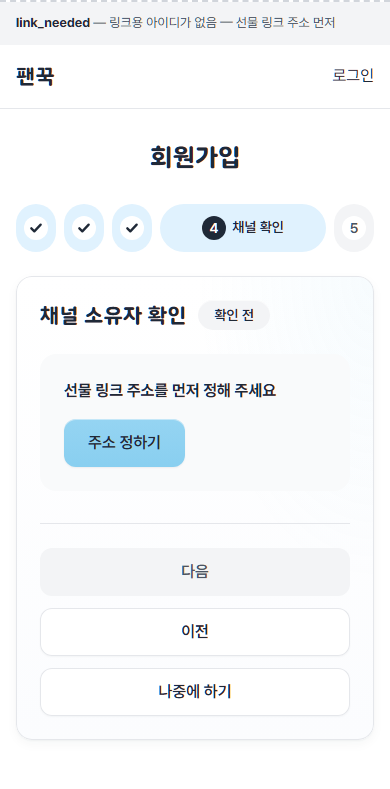
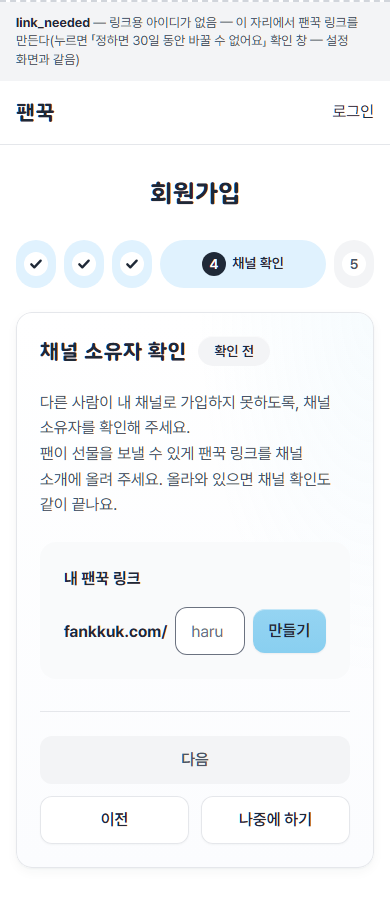
docs(fankkuk): 채널 확인 시안 — 내 팬꾹 링크·소유자 확인 안내·링크 바로 만들기·휴대폰 버튼 줄 반씩

diff --git a/projects/fankkuk/docs/design/mockups/channel-link-verify-20261102/index.html b/projects/fankkuk/docs/design/mockups/channel-link-verify-20261102/index.html
@@ -5,15 +5,15 @@
 <link rel="stylesheet" href="styles.css"></head><body>
 <!-- 근거: docs/ux/pages/signup.md · handle.md 「2026-11-02 채널 확인 개정안」. 쪽지 코드 칸 없음. 새 토큰·부품 없음(styles.css 는 v43 가입 시안 CSS 를 그대로 복사). 운영자 화면은 admin.html -->
 <header class="v-head"><h1 class="t-title">채널 확인 — 선물 링크 게시 확인</h1><ol><li><a href="#link-needed">link_needed</a></li><li><a href="#idle-empty">idle (1/3)</a></li><li><a href="#idle-youtube">idle (2/3)</a></li><li><a href="#idle-chzzk">idle (3/3)</a></li><li><a href="#waiting">waiting</a></li><li><a href="#rejected">rejected</a></li><li><a href="#verified">verified (가입 4단계)</a></li><li><a href="#locked">locked</a></li><li><a href="#acct-verified">verified (계정 설정)</a></li><li><a href="#acct-recheck">recheck_missing</a></li><li><a href="#profile-verifying">verifying (선물 링크 페이지 fankkuk.com/haru)</a></li><li><a href="admin.html">운영자 화면(admin.html)</a></li></ol></header>
-<section class="v-state" id="link-needed"><span class="v-label"><b>link_needed</b> — 링크용 아이디가 없음 — 선물 링크 주소 먼저</span><div class="v-bar"><b>팬꾹</b><span>로그인</span></div><main><section class="su-page"><div class="container auth su-box"><div class="head"><h1 class="t-title">회원가입</h1></div><nav class="su-steps-wrap" aria-label="가입 단계"><ol class="su-steps su-four"><li><span class="su-st is-done"><span class="su-dot" aria-hidden="true"><svg width="16" height="16" viewBox="0 0 24 24" aria-hidden="true"><path d="m5 12.5 4.5 4.5L19 7" fill="none" stroke="currentColor" stroke-width="3.5" stroke-linecap="round" stroke-linejoin="round"/></svg></span><span class="su-lbl">유형 선택</span></span></li><li><span class="su-st is-done"><span class="su-dot" aria-hidden="true"><svg width="16" height="16" viewBox="0 0 24 24" aria-hidden="true"><path d="m5 12.5 4.5 4.5L19 7" fill="none" stroke="currentColor" stroke-width="3.5" stroke-linecap="round" stroke-linejoin="round"/></svg></span><span class="su-lbl">정보 입력</span></span></li><li><span class="su-st is-done"><span class="su-dot" aria-hidden="true"><svg width="16" height="16" viewBox="0 0 24 24" aria-hidden="true"><path d="m5 12.5 4.5 4.5L19 7" fill="none" stroke="currentColor" stroke-width="3.5" stroke-linecap="round" stroke-linejoin="round"/></svg></span><span class="su-lbl">휴대폰 확인</span></span></li><li><span class="su-st" aria-current="step"><span class="su-dot" aria-hidden="true">4</span><span class="su-lbl">채널 확인</span></span></li><li><span class="su-st"><span class="su-dot" aria-hidden="true">5</span><span class="su-lbl">승인 서명</span></span></li></ol></nav><form class="card" onsubmit="return false"><fieldset class="su-step"><legend class="sr-only">채널 소유자 확인</legend><div class="vp-head"><h2 class="t-card">채널 소유자 확인</h2><span class="tag">확인 전</span></div><div class="vp-box"><p class="vp-label">선물 링크 주소를 먼저 정해 주세요</p><div><button class="btn" type="button">주소 정하기</button></div></div></fieldset><div class="v-kakao-actions v-three"><button class="btn btn--line" type="button">이전</button><button class="btn btn--line" type="button">나중에 하기</button><button class="btn su-next v-main" type="submit" aria-disabled="true">다음</button></div></form></div></section></main></section>
-<section class="v-state" id="idle-empty"><span class="v-label"><b>idle (1/3)</b> — 확인 전 — 채널 주소 입력 전</span><div class="v-bar"><b>팬꾹</b><span>로그인</span></div><main><section class="su-page"><div class="container auth su-box"><div class="head"><h1 class="t-title">회원가입</h1></div><nav class="su-steps-wrap" aria-label="가입 단계"><ol class="su-steps su-four"><li><span class="su-st is-done"><span class="su-dot" aria-hidden="true"><svg width="16" height="16" viewBox="0 0 24 24" aria-hidden="true"><path d="m5 12.5 4.5 4.5L19 7" fill="none" stroke="currentColor" stroke-width="3.5" stroke-linecap="round" stroke-linejoin="round"/></svg></span><span class="su-lbl">유형 선택</span></span></li><li><span class="su-st is-done"><span class="su-dot" aria-hidden="true"><svg width="16" height="16" viewBox="0 0 24 24" aria-hidden="true"><path d="m5 12.5 4.5 4.5L19 7" fill="none" stroke="currentColor" stroke-width="3.5" stroke-linecap="round" stroke-linejoin="round"/></svg></span><span class="su-lbl">정보 입력</span></span></li><li><span class="su-st is-done"><span class="su-dot" aria-hidden="true"><svg width="16" height="16" viewBox="0 0 24 24" aria-hidden="true"><path d="m5 12.5 4.5 4.5L19 7" fill="none" stroke="currentColor" stroke-width="3.5" stroke-linecap="round" stroke-linejoin="round"/></svg></span><span class="su-lbl">휴대폰 확인</span></span></li><li><span class="su-st" aria-current="step"><span class="su-dot" aria-hidden="true">4</span><span class="su-lbl">채널 확인</span></span></li><li><span class="su-st"><span class="su-dot" aria-hidden="true">5</span><span class="su-lbl">승인 서명</span></span></li></ol></nav><form class="card" onsubmit="return false"><fieldset class="su-step"><legend class="sr-only">채널 소유자 확인</legend><div class="vp-head"><h2 class="t-card">채널 소유자 확인</h2><span class="tag">확인 전</span></div><p class="sub su-lead">팬이 선물을 보낼 수 있게 선물 링크를 채널 소개에 올려 주세요. 올라와 있으면 채널 확인도 같이 끝나요.</p><div class="vp-box"><p class="vp-label">내 선물 링크</p><div class="vp-code-row"><span class="vp-link">fankkuk.com/haru</span><button class="btn btn--line btn--sm" type="button">복사</button></div></div><div style="margin-top:24px"><div><label class="label" for="a1">채널 주소</label><input class="field" id="a1" inputmode="url" placeholder="https://www.youtube.com/@핸들" value=""><ul class="vp-examples"><li>유튜브 <code>https://www.youtube.com/@핸들</code></li><li>치지직 <code>https://chzzk.naver.com/채널ID</code></li><li>SOOP <code>https://www.sooplive.co.kr/station/아이디</code></li></ul></div></div><div class="vp-steps"><button class="btn" type="button" aria-disabled="true">확인 요청</button></div></fieldset><div class="v-kakao-actions v-three"><button class="btn btn--line" type="button">이전</button><button class="btn btn--line" type="button">나중에 하기</button><button class="btn su-next v-main" type="submit" aria-disabled="true">다음</button></div></form></div></section></main></section>
-<section class="v-state" id="idle-youtube"><span class="v-label"><b>idle (2/3)</b> — 확인 전 — 유튜브 주소 입력 뒤</span><div class="v-bar"><b>팬꾹</b><span>로그인</span></div><main><section class="su-page"><div class="container auth su-box"><div class="head"><h1 class="t-title">회원가입</h1></div><nav class="su-steps-wrap" aria-label="가입 단계"><ol class="su-steps su-four"><li><span class="su-st is-done"><span class="su-dot" aria-hidden="true"><svg width="16" height="16" viewBox="0 0 24 24" aria-hidden="true"><path d="m5 12.5 4.5 4.5L19 7" fill="none" stroke="currentColor" stroke-width="3.5" stroke-linecap="round" stroke-linejoin="round"/></svg></span><span class="su-lbl">유형 선택</span></span></li><li><span class="su-st is-done"><span class="su-dot" aria-hidden="true"><svg width="16" height="16" viewBox="0 0 24 24" aria-hidden="true"><path d="m5 12.5 4.5 4.5L19 7" fill="none" stroke="currentColor" stroke-width="3.5" stroke-linecap="round" stroke-linejoin="round"/></svg></span><span class="su-lbl">정보 입력</span></span></li><li><span class="su-st is-done"><span class="su-dot" aria-hidden="true"><svg width="16" height="16" viewBox="0 0 24 24" aria-hidden="true"><path d="m5 12.5 4.5 4.5L19 7" fill="none" stroke="currentColor" stroke-width="3.5" stroke-linecap="round" stroke-linejoin="round"/></svg></span><span class="su-lbl">휴대폰 확인</span></span></li><li><span class="su-st" aria-current="step"><span class="su-dot" aria-hidden="true">4</span><span class="su-lbl">채널 확인</span></span></li><li><span class="su-st"><span class="su-dot" aria-hidden="true">5</span><span class="su-lbl">승인 서명</span></span></li></ol></nav><form class="card" onsubmit="return false"><fieldset class="su-step"><legend class="sr-only">채널 소유자 확인</legend><div class="vp-head"><h2 class="t-card">채널 소유자 확인</h2><span class="tag">확인 전</span></div><p class="sub su-lead">팬이 선물을 보낼 수 있게 선물 링크를 채널 소개에 올려 주세요. 올라와 있으면 채널 확인도 같이 끝나요.</p><div class="vp-box"><p class="vp-label">내 선물 링크</p><div class="vp-code-row"><span class="vp-link">fankkuk.com/haru</span><button class="btn btn--line btn--sm" type="button">복사</button></div></div><div style="margin-top:24px"><div><label class="label" for="a2">채널 주소</label><input class="field" id="a2" inputmode="url" placeholder="https://www.youtube.com/@핸들" value="https://www.youtube.com/@honeypot"><p class="vp-preview">유튜브 · https://www.youtube.com/@honeypot</p></div></div><div class="vp-steps"><button class="btn" type="button">확인 요청</button></div></fieldset><div class="v-kakao-actions v-three"><button class="btn btn--line" type="button">이전</button><button class="btn btn--line" type="button">나중에 하기</button><button class="btn su-next v-main" type="submit" aria-disabled="true">다음</button></div></form></div></section></main></section>
-<section class="v-state" id="idle-chzzk"><span class="v-label"><b>idle (3/3)</b> — 확인 전 — 치지직 주소 + 치지직 로그인 연결이 있을 때</span><div class="v-bar"><b>팬꾹</b><span>로그인</span></div><main><section class="su-page"><div class="container auth su-box"><div class="head"><h1 class="t-title">회원가입</h1></div><nav class="su-steps-wrap" aria-label="가입 단계"><ol class="su-steps su-four"><li><span class="su-st is-done"><span class="su-dot" aria-hidden="true"><svg width="16" height="16" viewBox="0 0 24 24" aria-hidden="true"><path d="m5 12.5 4.5 4.5L19 7" fill="none" stroke="currentColor" stroke-width="3.5" stroke-linecap="round" stroke-linejoin="round"/></svg></span><span class="su-lbl">유형 선택</span></span></li><li><span class="su-st is-done"><span class="su-dot" aria-hidden="true"><svg width="16" height="16" viewBox="0 0 24 24" aria-hidden="true"><path d="m5 12.5 4.5 4.5L19 7" fill="none" stroke="currentColor" stroke-width="3.5" stroke-linecap="round" stroke-linejoin="round"/></svg></span><span class="su-lbl">정보 입력</span></span></li><li><span class="su-st is-done"><span class="su-dot" aria-hidden="true"><svg width="16" height="16" viewBox="0 0 24 24" aria-hidden="true"><path d="m5 12.5 4.5 4.5L19 7" fill="none" stroke="currentColor" stroke-width="3.5" stroke-linecap="round" stroke-linejoin="round"/></svg></span><span class="su-lbl">휴대폰 확인</span></span></li><li><span class="su-st" aria-current="step"><span class="su-dot" aria-hidden="true">4</span><span class="su-lbl">채널 확인</span></span></li><li><span class="su-st"><span class="su-dot" aria-hidden="true">5</span><span class="su-lbl">승인 서명</span></span></li></ol></nav><form class="card" onsubmit="return false"><fieldset class="su-step"><legend class="sr-only">채널 소유자 확인</legend><div class="vp-head"><h2 class="t-card">채널 소유자 확인</h2><span class="tag">확인 전</span></div><p class="sub su-lead">팬이 선물을 보낼 수 있게 선물 링크를 채널 소개에 올려 주세요. 올라와 있으면 채널 확인도 같이 끝나요.</p><div class="vp-box"><p class="vp-label">내 선물 링크</p><div class="vp-code-row"><span class="vp-link">fankkuk.com/haru</span><button class="btn btn--line btn--sm" type="button">복사</button></div></div><div style="margin-top:24px"><div><label class="label" for="a3">채널 주소</label><input class="field" id="a3" inputmode="url" placeholder="https://www.youtube.com/@핸들" value="https://chzzk.naver.com/9f3a7c21d0b84e"><p class="vp-preview">치지직 · https://chzzk.naver.com/9f3a7c21d0b84e</p></div></div><div class="vp-steps"><button class="btn" type="button">확인 요청</button><div class="vp-or"><button class="btn btn--line" type="button">치지직으로 바로 확인</button></div></div></fieldset><div class="v-kakao-actions v-three"><button class="btn btn--line" type="button">이전</button><button class="btn btn--line" type="button">나중에 하기</button><button class="btn su-next v-main" type="submit" aria-disabled="true">다음</button></div></form></div></section></main></section>
-<section class="v-state" id="waiting"><span class="v-label"><b>waiting</b> — 확인 대기 — 「나중에 하기」는 열려 있고 「다음」은 잠김</span><div class="v-bar"><b>팬꾹</b><span>로그인</span></div><main><section class="su-page"><div class="container auth su-box"><div class="head"><h1 class="t-title">회원가입</h1></div><nav class="su-steps-wrap" aria-label="가입 단계"><ol class="su-steps su-four"><li><span class="su-st is-done"><span class="su-dot" aria-hidden="true"><svg width="16" height="16" viewBox="0 0 24 24" aria-hidden="true"><path d="m5 12.5 4.5 4.5L19 7" fill="none" stroke="currentColor" stroke-width="3.5" stroke-linecap="round" stroke-linejoin="round"/></svg></span><span class="su-lbl">유형 선택</span></span></li><li><span class="su-st is-done"><span class="su-dot" aria-hidden="true"><svg width="16" height="16" viewBox="0 0 24 24" aria-hidden="true"><path d="m5 12.5 4.5 4.5L19 7" fill="none" stroke="currentColor" stroke-width="3.5" stroke-linecap="round" stroke-linejoin="round"/></svg></span><span class="su-lbl">정보 입력</span></span></li><li><span class="su-st is-done"><span class="su-dot" aria-hidden="true"><svg width="16" height="16" viewBox="0 0 24 24" aria-hidden="true"><path d="m5 12.5 4.5 4.5L19 7" fill="none" stroke="currentColor" stroke-width="3.5" stroke-linecap="round" stroke-linejoin="round"/></svg></span><span class="su-lbl">휴대폰 확인</span></span></li><li><span class="su-st" aria-current="step"><span class="su-dot" aria-hidden="true">4</span><span class="su-lbl">채널 확인</span></span></li><li><span class="su-st"><span class="su-dot" aria-hidden="true">5</span><span class="su-lbl">승인 서명</span></span></li></ol></nav><form class="card" onsubmit="return false"><fieldset class="su-step"><legend class="sr-only">채널 소유자 확인</legend><div class="vp-head"><h2 class="t-card">채널 소유자 확인</h2><span class="tag tag--warn">확인 대기</span></div><div class="vp-box"><p class="vp-label">운영자가 채널을 열어 선물 링크를 확인하고 있어요</p><div class="vp-kv"><span class="k">요청한 채널 주소</span><span class="ch" style="font-weight:700;overflow-wrap:anywhere">https://www.youtube.com/@honeypot</span></div><div class="vp-kv"><span class="k">찾을 링크</span><div class="vp-code-row"><span class="vp-link">fankkuk.com/haru</span><button class="btn btn--line btn--sm" type="button">복사</button></div></div><div><button class="btn btn--line" type="button">요청 거두기</button></div></div></fieldset><div class="v-kakao-actions v-three"><button class="btn btn--line" type="button">이전</button><button class="btn btn--line" type="button">나중에 하기</button><button class="btn su-next v-main" type="submit" aria-disabled="true">다음</button></div></form></div></section></main></section>
-<section class="v-state" id="rejected"><span class="v-label"><b>rejected</b> — 반려 — 사유 한 줄 + 남은 요청 횟수, 아래는 idle 의 칸</span><div class="v-bar"><b>팬꾹</b><span>로그인</span></div><main><section class="su-page"><div class="container auth su-box"><div class="head"><h1 class="t-title">회원가입</h1></div><nav class="su-steps-wrap" aria-label="가입 단계"><ol class="su-steps su-four"><li><span class="su-st is-done"><span class="su-dot" aria-hidden="true"><svg width="16" height="16" viewBox="0 0 24 24" aria-hidden="true"><path d="m5 12.5 4.5 4.5L19 7" fill="none" stroke="currentColor" stroke-width="3.5" stroke-linecap="round" stroke-linejoin="round"/></svg></span><span class="su-lbl">유형 선택</span></span></li><li><span class="su-st is-done"><span class="su-dot" aria-hidden="true"><svg width="16" height="16" viewBox="0 0 24 24" aria-hidden="true"><path d="m5 12.5 4.5 4.5L19 7" fill="none" stroke="currentColor" stroke-width="3.5" stroke-linecap="round" stroke-linejoin="round"/></svg></span><span class="su-lbl">정보 입력</span></span></li><li><span class="su-st is-done"><span class="su-dot" aria-hidden="true"><svg width="16" height="16" viewBox="0 0 24 24" aria-hidden="true"><path d="m5 12.5 4.5 4.5L19 7" fill="none" stroke="currentColor" stroke-width="3.5" stroke-linecap="round" stroke-linejoin="round"/></svg></span><span class="su-lbl">휴대폰 확인</span></span></li><li><span class="su-st" aria-current="step"><span class="su-dot" aria-hidden="true">4</span><span class="su-lbl">채널 확인</span></span></li><li><span class="su-st"><span class="su-dot" aria-hidden="true">5</span><span class="su-lbl">승인 서명</span></span></li></ol></nav><form class="card" onsubmit="return false"><fieldset class="su-step"><legend class="sr-only">채널 소유자 확인</legend><div class="vp-head"><h2 class="t-card">채널 소유자 확인</h2><span class="tag tag--danger">반려</span></div><div class="vp-box" style="margin-bottom:24px"><p class="vp-rej"><svg width="20" height="20" viewBox="0 0 24 24" aria-hidden="true"><circle cx="12" cy="12" r="10" fill="none" stroke="currentColor" stroke-width="2"/><path d="M12 7v6M12 16.5v.5" stroke="currentColor" stroke-width="2.4" stroke-linecap="round"/></svg>링크 주소가 다름</p><p class="sub">남은 요청 횟수: 2회</p></div><div class="vp-box"><p class="vp-label">내 선물 링크</p><div class="vp-code-row"><span class="vp-link">fankkuk.com/haru</span><button class="btn btn--line btn--sm" type="button">복사</button></div></div><div style="margin-top:24px"><div><label class="label" for="a4">채널 주소</label><input class="field" id="a4" inputmode="url" placeholder="https://www.youtube.com/@핸들" value="https://www.youtube.com/@honeypot"><p class="vp-preview">유튜브 · https://www.youtube.com/@honeypot</p></div></div><div class="vp-steps"><button class="btn" type="button">다시 확인 요청</button></div></fieldset><div class="v-kakao-actions v-three"><button class="btn btn--line" type="button">이전</button><button class="btn btn--line" type="button">나중에 하기</button><button class="btn su-next v-main" type="submit" aria-disabled="true">다음</button></div></form></div></section></main></section>
+<section class="v-state" id="link-needed"><span class="v-label"><b>link_needed</b> — 링크용 아이디가 없음 — 이 자리에서 팬꾹 링크를 만든다(누르면 「정하면 30일 동안 바꿀 수 없어요」 확인 창 — 설정 화면과 같음)</span><div class="v-bar"><b>팬꾹</b><span>로그인</span></div><main><section class="su-page"><div class="container auth su-box"><div class="head"><h1 class="t-title">회원가입</h1></div><nav class="su-steps-wrap" aria-label="가입 단계"><ol class="su-steps su-four"><li><span class="su-st is-done"><span class="su-dot" aria-hidden="true"><svg width="16" height="16" viewBox="0 0 24 24" aria-hidden="true"><path d="m5 12.5 4.5 4.5L19 7" fill="none" stroke="currentColor" stroke-width="3.5" stroke-linecap="round" stroke-linejoin="round"/></svg></span><span class="su-lbl">유형 선택</span></span></li><li><span class="su-st is-done"><span class="su-dot" aria-hidden="true"><svg width="16" height="16" viewBox="0 0 24 24" aria-hidden="true"><path d="m5 12.5 4.5 4.5L19 7" fill="none" stroke="currentColor" stroke-width="3.5" stroke-linecap="round" stroke-linejoin="round"/></svg></span><span class="su-lbl">정보 입력</span></span></li><li><span class="su-st is-done"><span class="su-dot" aria-hidden="true"><svg width="16" height="16" viewBox="0 0 24 24" aria-hidden="true"><path d="m5 12.5 4.5 4.5L19 7" fill="none" stroke="currentColor" stroke-width="3.5" stroke-linecap="round" stroke-linejoin="round"/></svg></span><span class="su-lbl">휴대폰 확인</span></span></li><li><span class="su-st" aria-current="step"><span class="su-dot" aria-hidden="true">4</span><span class="su-lbl">채널 확인</span></span></li><li><span class="su-st"><span class="su-dot" aria-hidden="true">5</span><span class="su-lbl">승인 서명</span></span></li></ol></nav><form class="card" onsubmit="return false"><fieldset class="su-step"><legend class="sr-only">채널 소유자 확인</legend><div class="vp-head"><h2 class="t-card">채널 소유자 확인</h2><span class="tag">확인 전</span></div><p class="sub su-lead">다른 사람이 내 채널로 가입하지 못하도록, 채널 소유자를 확인해 주세요.<br>팬이 선물을 보낼 수 있게 팬꾹 링크를 채널 소개에 올려 주세요. 올라와 있으면 채널 확인도 같이 끝나요.</p><div class="vp-box"><label class="vp-label" for="h0">내 팬꾹 링크</label><div class="vp-handle"><span class="pre">fankkuk.com/</span><input class="field" id="h0" placeholder="haru"><button class="btn btn--sm" type="button">만들기</button></div></div></fieldset><div class="v-kakao-actions v-three"><button class="btn btn--line" type="button">이전</button><button class="btn btn--line" type="button">나중에 하기</button><button class="btn su-next v-main" type="submit" aria-disabled="true">다음</button></div></form></div></section></main></section>
+<section class="v-state" id="idle-empty"><span class="v-label"><b>idle (1/3)</b> — 확인 전 — 채널 주소 입력 전</span><div class="v-bar"><b>팬꾹</b><span>로그인</span></div><main><section class="su-page"><div class="container auth su-box"><div class="head"><h1 class="t-title">회원가입</h1></div><nav class="su-steps-wrap" aria-label="가입 단계"><ol class="su-steps su-four"><li><span class="su-st is-done"><span class="su-dot" aria-hidden="true"><svg width="16" height="16" viewBox="0 0 24 24" aria-hidden="true"><path d="m5 12.5 4.5 4.5L19 7" fill="none" stroke="currentColor" stroke-width="3.5" stroke-linecap="round" stroke-linejoin="round"/></svg></span><span class="su-lbl">유형 선택</span></span></li><li><span class="su-st is-done"><span class="su-dot" aria-hidden="true"><svg width="16" height="16" viewBox="0 0 24 24" aria-hidden="true"><path d="m5 12.5 4.5 4.5L19 7" fill="none" stroke="currentColor" stroke-width="3.5" stroke-linecap="round" stroke-linejoin="round"/></svg></span><span class="su-lbl">정보 입력</span></span></li><li><span class="su-st is-done"><span class="su-dot" aria-hidden="true"><svg width="16" height="16" viewBox="0 0 24 24" aria-hidden="true"><path d="m5 12.5 4.5 4.5L19 7" fill="none" stroke="currentColor" stroke-width="3.5" stroke-linecap="round" stroke-linejoin="round"/></svg></span><span class="su-lbl">휴대폰 확인</span></span></li><li><span class="su-st" aria-current="step"><span class="su-dot" aria-hidden="true">4</span><span class="su-lbl">채널 확인</span></span></li><li><span class="su-st"><span class="su-dot" aria-hidden="true">5</span><span class="su-lbl">승인 서명</span></span></li></ol></nav><form class="card" onsubmit="return false"><fieldset class="su-step"><legend class="sr-only">채널 소유자 확인</legend><div class="vp-head"><h2 class="t-card">채널 소유자 확인</h2><span class="tag">확인 전</span></div><p class="sub su-lead">다른 사람이 내 채널로 가입하지 못하도록, 채널 소유자를 확인해 주세요.<br>팬이 선물을 보낼 수 있게 팬꾹 링크를 채널 소개에 올려 주세요. 올라와 있으면 채널 확인도 같이 끝나요.</p><div class="vp-box"><p class="vp-label">내 팬꾹 링크</p><div class="vp-code-row"><span class="vp-link">fankkuk.com/haru</span><button class="btn btn--line btn--sm" type="button">복사</button></div></div><div style="margin-top:24px"><div><label class="label" for="a1">채널 주소</label><input class="field" id="a1" inputmode="url" placeholder="https://www.youtube.com/@핸들" value=""><ul class="vp-examples"><li>유튜브 <code>https://www.youtube.com/@핸들</code></li><li>치지직 <code>https://chzzk.naver.com/채널ID</code></li><li>SOOP <code>https://www.sooplive.co.kr/station/아이디</code></li></ul></div></div><div class="vp-steps"><button class="btn" type="button" aria-disabled="true">확인 요청</button></div></fieldset><div class="v-kakao-actions v-three"><button class="btn btn--line" type="button">이전</button><button class="btn btn--line" type="button">나중에 하기</button><button class="btn su-next v-main" type="submit" aria-disabled="true">다음</button></div></form></div></section></main></section>
+<section class="v-state" id="idle-youtube"><span class="v-label"><b>idle (2/3)</b> — 확인 전 — 유튜브 주소 입력 뒤</span><div class="v-bar"><b>팬꾹</b><span>로그인</span></div><main><section class="su-page"><div class="container auth su-box"><div class="head"><h1 class="t-title">회원가입</h1></div><nav class="su-steps-wrap" aria-label="가입 단계"><ol class="su-steps su-four"><li><span class="su-st is-done"><span class="su-dot" aria-hidden="true"><svg width="16" height="16" viewBox="0 0 24 24" aria-hidden="true"><path d="m5 12.5 4.5 4.5L19 7" fill="none" stroke="currentColor" stroke-width="3.5" stroke-linecap="round" stroke-linejoin="round"/></svg></span><span class="su-lbl">유형 선택</span></span></li><li><span class="su-st is-done"><span class="su-dot" aria-hidden="true"><svg width="16" height="16" viewBox="0 0 24 24" aria-hidden="true"><path d="m5 12.5 4.5 4.5L19 7" fill="none" stroke="currentColor" stroke-width="3.5" stroke-linecap="round" stroke-linejoin="round"/></svg></span><span class="su-lbl">정보 입력</span></span></li><li><span class="su-st is-done"><span class="su-dot" aria-hidden="true"><svg width="16" height="16" viewBox="0 0 24 24" aria-hidden="true"><path d="m5 12.5 4.5 4.5L19 7" fill="none" stroke="currentColor" stroke-width="3.5" stroke-linecap="round" stroke-linejoin="round"/></svg></span><span class="su-lbl">휴대폰 확인</span></span></li><li><span class="su-st" aria-current="step"><span class="su-dot" aria-hidden="true">4</span><span class="su-lbl">채널 확인</span></span></li><li><span class="su-st"><span class="su-dot" aria-hidden="true">5</span><span class="su-lbl">승인 서명</span></span></li></ol></nav><form class="card" onsubmit="return false"><fieldset class="su-step"><legend class="sr-only">채널 소유자 확인</legend><div class="vp-head"><h2 class="t-card">채널 소유자 확인</h2><span class="tag">확인 전</span></div><p class="sub su-lead">다른 사람이 내 채널로 가입하지 못하도록, 채널 소유자를 확인해 주세요.<br>팬이 선물을 보낼 수 있게 팬꾹 링크를 채널 소개에 올려 주세요. 올라와 있으면 채널 확인도 같이 끝나요.</p><div class="vp-box"><p class="vp-label">내 팬꾹 링크</p><div class="vp-code-row"><span class="vp-link">fankkuk.com/haru</span><button class="btn btn--line btn--sm" type="button">복사</button></div></div><div style="margin-top:24px"><div><label class="label" for="a2">채널 주소</label><input class="field" id="a2" inputmode="url" placeholder="https://www.youtube.com/@핸들" value="https://www.youtube.com/@honeypot"><p class="vp-preview">유튜브 · https://www.youtube.com/@honeypot</p></div></div><div class="vp-steps"><button class="btn" type="button">확인 요청</button></div></fieldset><div class="v-kakao-actions v-three"><button class="btn btn--line" type="button">이전</button><button class="btn btn--line" type="button">나중에 하기</button><button class="btn su-next v-main" type="submit" aria-disabled="true">다음</button></div></form></div></section></main></section>
+<section class="v-state" id="idle-chzzk"><span class="v-label"><b>idle (3/3)</b> — 확인 전 — 치지직 주소 + 치지직 로그인 연결이 있을 때</span><div class="v-bar"><b>팬꾹</b><span>로그인</span></div><main><section class="su-page"><div class="container auth su-box"><div class="head"><h1 class="t-title">회원가입</h1></div><nav class="su-steps-wrap" aria-label="가입 단계"><ol class="su-steps su-four"><li><span class="su-st is-done"><span class="su-dot" aria-hidden="true"><svg width="16" height="16" viewBox="0 0 24 24" aria-hidden="true"><path d="m5 12.5 4.5 4.5L19 7" fill="none" stroke="currentColor" stroke-width="3.5" stroke-linecap="round" stroke-linejoin="round"/></svg></span><span class="su-lbl">유형 선택</span></span></li><li><span class="su-st is-done"><span class="su-dot" aria-hidden="true"><svg width="16" height="16" viewBox="0 0 24 24" aria-hidden="true"><path d="m5 12.5 4.5 4.5L19 7" fill="none" stroke="currentColor" stroke-width="3.5" stroke-linecap="round" stroke-linejoin="round"/></svg></span><span class="su-lbl">정보 입력</span></span></li><li><span class="su-st is-done"><span class="su-dot" aria-hidden="true"><svg width="16" height="16" viewBox="0 0 24 24" aria-hidden="true"><path d="m5 12.5 4.5 4.5L19 7" fill="none" stroke="currentColor" stroke-width="3.5" stroke-linecap="round" stroke-linejoin="round"/></svg></span><span class="su-lbl">휴대폰 확인</span></span></li><li><span class="su-st" aria-current="step"><span class="su-dot" aria-hidden="true">4</span><span class="su-lbl">채널 확인</span></span></li><li><span class="su-st"><span class="su-dot" aria-hidden="true">5</span><span class="su-lbl">승인 서명</span></span></li></ol></nav><form class="card" onsubmit="return false"><fieldset class="su-step"><legend class="sr-only">채널 소유자 확인</legend><div class="vp-head"><h2 class="t-card">채널 소유자 확인</h2><span class="tag">확인 전</span></div><p class="sub su-lead">다른 사람이 내 채널로 가입하지 못하도록, 채널 소유자를 확인해 주세요.<br>팬이 선물을 보낼 수 있게 팬꾹 링크를 채널 소개에 올려 주세요. 올라와 있으면 채널 확인도 같이 끝나요.</p><div class="vp-box"><p class="vp-label">내 팬꾹 링크</p><div class="vp-code-row"><span class="vp-link">fankkuk.com/haru</span><button class="btn btn--line btn--sm" type="button">복사</button></div></div><div style="margin-top:24px"><div><label class="label" for="a3">채널 주소</label><input class="field" id="a3" inputmode="url" placeholder="https://www.youtube.com/@핸들" value="https://chzzk.naver.com/9f3a7c21d0b84e"><p class="vp-preview">치지직 · https://chzzk.naver.com/9f3a7c21d0b84e</p></div></div><div class="vp-steps"><button class="btn" type="button">확인 요청</button><div class="vp-or"><button class="btn btn--line" type="button">치지직으로 바로 확인</button></div></div></fieldset><div class="v-kakao-actions v-three"><button class="btn btn--line" type="button">이전</button><button class="btn btn--line" type="button">나중에 하기</button><button class="btn su-next v-main" type="submit" aria-disabled="true">다음</button></div></form></div></section></main></section>
+<section class="v-state" id="waiting"><span class="v-label"><b>waiting</b> — 확인 대기 — 「나중에 하기」는 열려 있고 「다음」은 잠김</span><div class="v-bar"><b>팬꾹</b><span>로그인</span></div><main><section class="su-page"><div class="container auth su-box"><div class="head"><h1 class="t-title">회원가입</h1></div><nav class="su-steps-wrap" aria-label="가입 단계"><ol class="su-steps su-four"><li><span class="su-st is-done"><span class="su-dot" aria-hidden="true"><svg width="16" height="16" viewBox="0 0 24 24" aria-hidden="true"><path d="m5 12.5 4.5 4.5L19 7" fill="none" stroke="currentColor" stroke-width="3.5" stroke-linecap="round" stroke-linejoin="round"/></svg></span><span class="su-lbl">유형 선택</span></span></li><li><span class="su-st is-done"><span class="su-dot" aria-hidden="true"><svg width="16" height="16" viewBox="0 0 24 24" aria-hidden="true"><path d="m5 12.5 4.5 4.5L19 7" fill="none" stroke="currentColor" stroke-width="3.5" stroke-linecap="round" stroke-linejoin="round"/></svg></span><span class="su-lbl">정보 입력</span></span></li><li><span class="su-st is-done"><span class="su-dot" aria-hidden="true"><svg width="16" height="16" viewBox="0 0 24 24" aria-hidden="true"><path d="m5 12.5 4.5 4.5L19 7" fill="none" stroke="currentColor" stroke-width="3.5" stroke-linecap="round" stroke-linejoin="round"/></svg></span><span class="su-lbl">휴대폰 확인</span></span></li><li><span class="su-st" aria-current="step"><span class="su-dot" aria-hidden="true">4</span><span class="su-lbl">채널 확인</span></span></li><li><span class="su-st"><span class="su-dot" aria-hidden="true">5</span><span class="su-lbl">승인 서명</span></span></li></ol></nav><form class="card" onsubmit="return false"><fieldset class="su-step"><legend class="sr-only">채널 소유자 확인</legend><div class="vp-head"><h2 class="t-card">채널 소유자 확인</h2><span class="tag tag--warn">확인 대기</span></div><div class="vp-box"><p class="vp-label">운영자가 채널을 열어 팬꾹 링크를 확인하고 있어요</p><div class="vp-kv"><span class="k">요청한 채널 주소</span><span class="ch" style="font-weight:700;overflow-wrap:anywhere">https://www.youtube.com/@honeypot</span></div><div class="vp-kv"><span class="k">찾을 링크</span><div class="vp-code-row"><span class="vp-link">fankkuk.com/haru</span><button class="btn btn--line btn--sm" type="button">복사</button></div></div><div><button class="btn btn--line" type="button">요청 거두기</button></div></div></fieldset><div class="v-kakao-actions v-three"><button class="btn btn--line" type="button">이전</button><button class="btn btn--line" type="button">나중에 하기</button><button class="btn su-next v-main" type="submit" aria-disabled="true">다음</button></div></form></div></section></main></section>
+<section class="v-state" id="rejected"><span class="v-label"><b>rejected</b> — 반려 — 사유 한 줄 + 남은 요청 횟수, 아래는 idle 의 칸</span><div class="v-bar"><b>팬꾹</b><span>로그인</span></div><main><section class="su-page"><div class="container auth su-box"><div class="head"><h1 class="t-title">회원가입</h1></div><nav class="su-steps-wrap" aria-label="가입 단계"><ol class="su-steps su-four"><li><span class="su-st is-done"><span class="su-dot" aria-hidden="true"><svg width="16" height="16" viewBox="0 0 24 24" aria-hidden="true"><path d="m5 12.5 4.5 4.5L19 7" fill="none" stroke="currentColor" stroke-width="3.5" stroke-linecap="round" stroke-linejoin="round"/></svg></span><span class="su-lbl">유형 선택</span></span></li><li><span class="su-st is-done"><span class="su-dot" aria-hidden="true"><svg width="16" height="16" viewBox="0 0 24 24" aria-hidden="true"><path d="m5 12.5 4.5 4.5L19 7" fill="none" stroke="currentColor" stroke-width="3.5" stroke-linecap="round" stroke-linejoin="round"/></svg></span><span class="su-lbl">정보 입력</span></span></li><li><span class="su-st is-done"><span class="su-dot" aria-hidden="true"><svg width="16" height="16" viewBox="0 0 24 24" aria-hidden="true"><path d="m5 12.5 4.5 4.5L19 7" fill="none" stroke="currentColor" stroke-width="3.5" stroke-linecap="round" stroke-linejoin="round"/></svg></span><span class="su-lbl">휴대폰 확인</span></span></li><li><span class="su-st" aria-current="step"><span class="su-dot" aria-hidden="true">4</span><span class="su-lbl">채널 확인</span></span></li><li><span class="su-st"><span class="su-dot" aria-hidden="true">5</span><span class="su-lbl">승인 서명</span></span></li></ol></nav><form class="card" onsubmit="return false"><fieldset class="su-step"><legend class="sr-only">채널 소유자 확인</legend><div class="vp-head"><h2 class="t-card">채널 소유자 확인</h2><span class="tag tag--danger">반려</span></div><div class="vp-box" style="margin-bottom:24px"><p class="vp-rej"><svg width="20" height="20" viewBox="0 0 24 24" aria-hidden="true"><circle cx="12" cy="12" r="10" fill="none" stroke="currentColor" stroke-width="2"/><path d="M12 7v6M12 16.5v.5" stroke="currentColor" stroke-width="2.4" stroke-linecap="round"/></svg>링크 주소가 다름</p><p class="sub">남은 요청 횟수: 2회</p></div><div class="vp-box"><p class="vp-label">내 팬꾹 링크</p><div class="vp-code-row"><span class="vp-link">fankkuk.com/haru</span><button class="btn btn--line btn--sm" type="button">복사</button></div></div><div style="margin-top:24px"><div><label class="label" for="a4">채널 주소</label><input class="field" id="a4" inputmode="url" placeholder="https://www.youtube.com/@핸들" value="https://www.youtube.com/@honeypot"><p class="vp-preview">유튜브 · https://www.youtube.com/@honeypot</p></div></div><div class="vp-steps"><button class="btn" type="button">다시 확인 요청</button></div></fieldset><div class="v-kakao-actions v-three"><button class="btn btn--line" type="button">이전</button><button class="btn btn--line" type="button">나중에 하기</button><button class="btn su-next v-main" type="submit" aria-disabled="true">다음</button></div></form></div></section></main></section>
 <section class="v-state" id="verified"><span class="v-label"><b>verified (가입 4단계)</b> — 확인 완료 — 「다음」이 켜짐, 다음 재확인 날 한 줄</span><div class="v-bar"><b>팬꾹</b><span>로그인</span></div><main><section class="su-page"><div class="container auth su-box"><div class="head"><h1 class="t-title">회원가입</h1></div><nav class="su-steps-wrap" aria-label="가입 단계"><ol class="su-steps su-four"><li><span class="su-st is-done"><span class="su-dot" aria-hidden="true"><svg width="16" height="16" viewBox="0 0 24 24" aria-hidden="true"><path d="m5 12.5 4.5 4.5L19 7" fill="none" stroke="currentColor" stroke-width="3.5" stroke-linecap="round" stroke-linejoin="round"/></svg></span><span class="su-lbl">유형 선택</span></span></li><li><span class="su-st is-done"><span class="su-dot" aria-hidden="true"><svg width="16" height="16" viewBox="0 0 24 24" aria-hidden="true"><path d="m5 12.5 4.5 4.5L19 7" fill="none" stroke="currentColor" stroke-width="3.5" stroke-linecap="round" stroke-linejoin="round"/></svg></span><span class="su-lbl">정보 입력</span></span></li><li><span class="su-st is-done"><span class="su-dot" aria-hidden="true"><svg width="16" height="16" viewBox="0 0 24 24" aria-hidden="true"><path d="m5 12.5 4.5 4.5L19 7" fill="none" stroke="currentColor" stroke-width="3.5" stroke-linecap="round" stroke-linejoin="round"/></svg></span><span class="su-lbl">휴대폰 확인</span></span></li><li><span class="su-st" aria-current="step"><span class="su-dot" aria-hidden="true">4</span><span class="su-lbl">채널 확인</span></span></li><li><span class="su-st"><span class="su-dot" aria-hidden="true">5</span><span class="su-lbl">승인 서명</span></span></li></ol></nav><form class="card" onsubmit="return false"><fieldset class="su-step"><legend class="sr-only">채널 소유자 확인</legend><div class="vp-head"><h2 class="t-card">채널 소유자 확인</h2><span class="tag tag--success">확인 완료</span></div><div class="vp-done"><strong>유튜브 채널 소유자로 확인되었습니다 · 2026.11.02</strong><a href="#">https://www.youtube.com/@honeypot</a><span class="sub">다음 재확인 2027.01.31</span></div></fieldset><div class="su-step-actions"><button class="btn btn--line" type="button">이전</button><button class="btn su-next" type="submit">다음</button></div></form></div></section></main></section>
 <section class="v-state" id="locked"><span class="v-label"><b>locked</b> — 그 채널로 끝난 요청 3번 — 더 요청할 수 없음</span><div class="v-bar"><b>팬꾹</b><span>로그인</span></div><main><section class="su-page"><div class="container auth su-box"><div class="head"><h1 class="t-title">회원가입</h1></div><nav class="su-steps-wrap" aria-label="가입 단계"><ol class="su-steps su-four"><li><span class="su-st is-done"><span class="su-dot" aria-hidden="true"><svg width="16" height="16" viewBox="0 0 24 24" aria-hidden="true"><path d="m5 12.5 4.5 4.5L19 7" fill="none" stroke="currentColor" stroke-width="3.5" stroke-linecap="round" stroke-linejoin="round"/></svg></span><span class="su-lbl">유형 선택</span></span></li><li><span class="su-st is-done"><span class="su-dot" aria-hidden="true"><svg width="16" height="16" viewBox="0 0 24 24" aria-hidden="true"><path d="m5 12.5 4.5 4.5L19 7" fill="none" stroke="currentColor" stroke-width="3.5" stroke-linecap="round" stroke-linejoin="round"/></svg></span><span class="su-lbl">정보 입력</span></span></li><li><span class="su-st is-done"><span class="su-dot" aria-hidden="true"><svg width="16" height="16" viewBox="0 0 24 24" aria-hidden="true"><path d="m5 12.5 4.5 4.5L19 7" fill="none" stroke="currentColor" stroke-width="3.5" stroke-linecap="round" stroke-linejoin="round"/></svg></span><span class="su-lbl">휴대폰 확인</span></span></li><li><span class="su-st" aria-current="step"><span class="su-dot" aria-hidden="true">4</span><span class="su-lbl">채널 확인</span></span></li><li><span class="su-st"><span class="su-dot" aria-hidden="true">5</span><span class="su-lbl">승인 서명</span></span></li></ol></nav><form class="card" onsubmit="return false"><fieldset class="su-step"><legend class="sr-only">채널 소유자 확인</legend><div class="vp-head"><h2 class="t-card">채널 소유자 확인</h2><span class="tag">신청 마감</span></div><div class="v-locked"><p class="vp-label">이 채널로는 더 신청할 수 없어요. 1:1 문의로 알려 주세요</p><div><button class="btn btn--line" type="button">1:1 문의</button></div></div></fieldset><div class="v-kakao-actions v-three"><button class="btn btn--line" type="button">이전</button><button class="btn btn--line" type="button">나중에 하기</button><button class="btn su-next v-main" type="submit" aria-disabled="true">다음</button></div></form></div></section></main></section>
 <section class="v-state" id="acct-verified"><span class="v-label"><b>verified (계정 설정)</b> — 확인 완료 — 같은 패널을 설정 화면에서 쓸 때(채널 이사 버튼 포함)</span><div class="v-bar"><b>팬꾹</b><span>로그인</span></div><main><div class="v-wrap720"><div class="head" style="margin-bottom:24px"><h1 class="t-title">계정 설정</h1></div><section class="card"><fieldset class="su-step" style="margin:0"><legend class="sr-only">채널 소유자 확인</legend><div class="vp-head"><h2 class="t-card">채널 소유자 확인</h2><span class="tag tag--success">확인 완료</span></div><div class="vp-done"><strong>유튜브 채널 소유자로 확인되었습니다 · 2026.11.02</strong><a href="#">https://www.youtube.com/@honeypot</a><span class="sub">다음 재확인 2027.01.31</span></div><div style="margin-top:16px"><button class="btn btn--line" type="button">채널 이사</button></div></fieldset></section></div></main></section>
-<section class="v-state" id="acct-recheck"><span class="v-label"><b>recheck_missing</b> — 재확인에서 링크를 못 찾음(유예 중) — 계정 설정</span><div class="v-bar"><b>팬꾹</b><span>로그인</span></div><main><div class="v-wrap720"><div class="head" style="margin-bottom:24px"><h1 class="t-title">계정 설정</h1></div><section class="card"><fieldset class="su-step" style="margin:0"><legend class="sr-only">채널 소유자 확인</legend><div class="vp-head"><h2 class="t-card">채널 소유자 확인</h2><span class="tag tag--warn">링크 확인 필요</span></div><div class="vp-box"><p class="vp-label">채널 소개에서 선물 링크를 찾지 못했어요. 11월 16일까지 다시 올려 주세요</p><div class="vp-kv"><span class="k">찾을 링크</span><div class="vp-code-row"><span class="vp-link">fankkuk.com/haru</span><button class="btn btn--line btn--sm" type="button">복사</button></div></div><div class="vp-actions"><button class="btn" type="button">다시 확인 요청</button></div></div></fieldset></section></div></main></section>
+<section class="v-state" id="acct-recheck"><span class="v-label"><b>recheck_missing</b> — 재확인에서 링크를 못 찾음(유예 중) — 계정 설정</span><div class="v-bar"><b>팬꾹</b><span>로그인</span></div><main><div class="v-wrap720"><div class="head" style="margin-bottom:24px"><h1 class="t-title">계정 설정</h1></div><section class="card"><fieldset class="su-step" style="margin:0"><legend class="sr-only">채널 소유자 확인</legend><div class="vp-head"><h2 class="t-card">채널 소유자 확인</h2><span class="tag tag--warn">링크 확인 필요</span></div><div class="vp-box"><p class="vp-label">채널 소개에서 팬꾹 링크를 찾지 못했어요. 11월 16일까지 다시 올려 주세요</p><div class="vp-kv"><span class="k">찾을 링크</span><div class="vp-code-row"><span class="vp-link">fankkuk.com/haru</span><button class="btn btn--line btn--sm" type="button">복사</button></div></div><div class="vp-actions"><button class="btn" type="button">다시 확인 요청</button></div></div></fieldset></section></div></main></section>
 <section class="v-state" id="profile-verifying"><span class="v-label"><b>verifying (선물 링크 페이지 fankkuk.com/haru)</b> — 채널 확인 중 — 팬이 볼 때. 팔로우·채널 아이콘·평균 승인 시간 없음</span><div class="v-bar"><b>팬꾹</b><span>로그인</span></div><main class="pf"><div class="pf-cover" aria-hidden="true"><i class="b"></i><i class="a"></i></div><div class="pf-body"><div class="pf-face"><img src="../part4-v4-20261101/assets/creator-cat.webp" alt="" width="112" height="112"></div><div class="pf-name"><h1>하루</h1></div><p class="pf-intro">게임 방송을 해요.</p><p class="pf-wait" role="status">채널 확인이 끝나면 선물을 보낼 수 있어요</p></div></main></section>
 </body></html>

diff --git a/projects/fankkuk/docs/design/mockups/channel-link-verify-20261102/admin.html b/projects/fankkuk/docs/design/mockups/channel-link-verify-20261102/admin.html
@@ -12,7 +12,7 @@
 <tr><td><div class="chan"><b>별빛</b><span class="mono sub">byeolbit77</span></div></td><td><div class="chan"><span><span class="tag">치지직</span></span><a href="#" aria-label="채널 새 창으로 열기">https://chzzk.naver.com/9f3a7c21d0b84e</a></div></td><td><b>별빛TV</b></td><td class="findlink mono">fankkuk.com/byeolbit</td><td class="mono nowrap">2026.11.02 10:48</td><td class="mono nowrap">1/3회</td><td class="act"><button class="btn btnSm" type="button">승인</button><button class="btn btnSm btnLine" type="button">반려</button></td></tr>
 <tr><td><div class="chan"><b>모모</b><span class="mono sub">momo_zzz</span></div></td><td><div class="chan"><span><span class="tag">SOOP</span></span><a href="#" aria-label="채널 새 창으로 열기">https://www.sooplive.co.kr/station/momo</a></div></td><td><b>모모의 방</b></td><td class="findlink mono">fankkuk.com/momo-play</td><td class="mono nowrap">2026.11.02 11:20</td><td class="mono nowrap">2/3회</td><td class="act"><button class="btn btnSm" type="button">승인</button><button class="btn btnSm btnLine" type="button">반려</button></td></tr>
 </tbody></table></div></section>
-<section class="a-frame" id="queue-reject"><span class="a-label"><b>queue — 「반려」를 누른 뒤</b></span><div class="dlg" role="dialog" aria-label="반려 사유"><h2>하루님의 확인 요청을 반려할까요?</h2><fieldset style="border:0;padding:0;margin:0"><legend class="sr-only">반려 사유</legend><div class="reasons"><label><input type="radio" name="r" checked> 선물 링크를 찾지 못함</label><label><input type="radio" name="r"> 링크 주소가 다름</label><label><input type="radio" name="r"> 채널 이름이 다름</label><label><input type="radio" name="r"> 채널 주소가 열리지 않음</label><label><input type="radio" name="r"> 그 밖</label></div></fieldset><div class="btnRow" style="justify-content:flex-end"><button class="btn btnLine" type="button">닫기</button><button class="btn" type="button">반려</button></div></div></section>
+<section class="a-frame" id="queue-reject"><span class="a-label"><b>queue — 「반려」를 누른 뒤</b></span><div class="dlg" role="dialog" aria-label="반려 사유"><h2>하루님의 확인 요청을 반려할까요?</h2><fieldset style="border:0;padding:0;margin:0"><legend class="sr-only">반려 사유</legend><div class="reasons"><label><input type="radio" name="r" checked> 팬꾹 링크를 찾지 못함</label><label><input type="radio" name="r"> 링크 주소가 다름</label><label><input type="radio" name="r"> 채널 이름이 다름</label><label><input type="radio" name="r"> 채널 주소가 열리지 않음</label><label><input type="radio" name="r"> 그 밖</label></div></fieldset><div class="btnRow" style="justify-content:flex-end"><button class="btn btnLine" type="button">닫기</button><button class="btn" type="button">반려</button></div></div></section>
 <section class="a-frame" id="recheck"><span class="a-label"><b>recheck — 재확인</b></span><div class="sectionH"><h2>재확인 <span>2건</span></h2></div><div class="tblWrap"><table class="tbl" style="min-width:900px"><caption class="sr-only">재확인 — 오래된 순</caption><thead><tr><th scope="col">닉네임</th><th scope="col">채널</th><th scope="col">찾을 링크 (지금)</th><th scope="col">오른 이유</th><th scope="col"><span class="sr-only">처리</span></th></tr></thead><tbody>
 <tr><td><div class="chan"><b>달빛</b><span class="mono sub">dalbit_k</span></div></td><td><div class="chan"><span><span class="tag">유튜브</span></span><a href="#" aria-label="채널 새 창으로 열기">https://www.youtube.com/@dalbit</a></div></td><td class="findlink mono">fankkuk.com/dalbit</td><td><span class="tag">90일 지남</span></td><td class="act"><button class="btn btnSm" type="button">링크 있음</button><button class="btn btnSm btnLine" type="button">링크 없음</button></td></tr>
 <tr><td><div class="chan"><b>하루</b><span class="mono sub">haru_game</span></div></td><td><div class="chan"><span><span class="tag">치지직</span></span><a href="#" aria-label="채널 새 창으로 열기">https://chzzk.naver.com/9f3a7c21d0b84e</a></div></td><td class="findlink mono">fankkuk.com/haru2</td><td><span class="tag tagWarn">아이디 바꿈</span></td><td class="act"><button class="btn btnSm" type="button">링크 있음</button><button class="btn btnSm btnLine" type="button">링크 없음</button></td></tr>

diff --git a/projects/fankkuk/docs/design/mockups/channel-link-verify-20261102/styles.css b/projects/fankkuk/docs/design/mockups/channel-link-verify-20261102/styles.css
@@ -1422,7 +1422,8 @@ body{background:#fff}
 .v-kakao-actions .btn{white-space:nowrap}
 .v-conn{display:flex;align-items:center;gap:12px;padding:16px;border-radius:var(--r-btn);background:var(--success-soft);color:var(--success);font-weight:600}
 @media(min-width:768px){.v-kakao-actions.v-three{grid-template-columns:auto 1fr auto;align-items:center}.v-kakao-actions.v-three .v-main{justify-self:end}}
-@media(max-width:767px){.v-kakao-actions .v-main{order:-1}}
+@media(max-width:767px){.v-kakao-actions.v-three{grid-template-columns:1fr 1fr}.v-kakao-actions .v-main{order:-1;grid-column:1/-1}}
+.vp-handle{display:flex;align-items:center;gap:8px}.vp-handle .pre{font-weight:700;white-space:nowrap}.vp-handle .field{flex:1;min-width:0}
 .v-link-row{display:flex;align-items:center;gap:16px;min-height:56px;padding:8px 16px;border-radius:var(--r-btn);background:#fff;border:1px solid var(--line-on-white);text-decoration:none;color:var(--ink);font-weight:600}
 .v-link-row > span:first-child{flex:1;min-width:0}
 .v-link-row .m{color:var(--sub);font-size:var(--fs-caption);font-weight:400}
